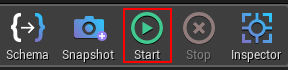
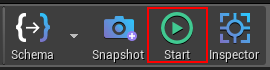
Docs/DOC-1068 Schema updates (#912)
* Edited initial schema generation instructions

Edited schema gen instruction in multiserver, template and porting guide.
Updated toolbar screenshots
Added new schema gen info to schema.md

* Update schema-button.png

* Update schema.md

* Update SpatialGDK/Documentation/content/spatialos-concepts/schema.md

* Update SpatialGDK/Documentation/content/spatialos-concepts/schema.md

* Update gdk-template.md

* Update tutorial-multiserver-setup.md

* Update tutorial-porting-guide.md

* Update schema.md

* Updated schema gen instructions

* Update schema.md

* Update SpatialGDK/Documentation/content/spatialos-concepts/schema.md

* Update SpatialGDK/Documentation/content/spatialos-concepts/schema.md

* Update SpatialGDK/Documentation/content/spatialos-concepts/schema.md

* Update SpatialGDK/Documentation/content/spatialos-concepts/schema.md

* Update schema.md

diff --git a/SpatialGDK/Documentation/content/spatialos-concepts/schema.md b/SpatialGDK/Documentation/content/spatialos-concepts/schema.md
@@ -1,30 +1,53 @@
 <%(TOC)%>
 # Schema
 
-Schema is a set of definitions which represent your game's objects in SpatialOS. SpatialOS uses schema to generate APIs specific to the components in your project. You can then use these APIs in your game's [worker types]({{urlRoot}}//content/glossary#spatialos-component) so their instances can interact with [SpatialOS entity components]({{urlRoot}}/content/glossary#spatialos-component). </br>
+Schema is a set of definitions which represent your game's classes in SpatialOS. SpatialOS uses schema to generate APIs specific to the components in your project. You can then use these APIs in your game's [worker types]({{urlRoot}}//content/glossary#spatialos-component) so their instances can interact with [SpatialOS entity components]({{urlRoot}}/content/glossary#spatialos-component). </br>
 
 Schema is defined in `.schema` files and written in schemalang.  When you use the GDK, the schema files and their contents are generated and deleted automatically so you do not have to write or edit schema files manually. The GDK generates and deletes schema for you, when you start schema generation.
 
 #### How to generate schema
 
-To generate schema, select the **Schema** button in the [GDK Toolbar]({{urlRoot}}/content/toolbars#buttons). The GDK automatically iterates through classes with replicated properties to generate the required schema files and then updates the [SchemaDatabase]({{urlRoot}}/content/glossary#schemadatabase).
+There are two ways to generate schema for your project:
 
-![Toolbar]({{assetRoot}}assets/screen-grabs/toolbar/schema-button.png)
+* **Generate schema (Full Scan)** 
 
-_Image: In the GDK toolbar in the Unreal Editor, select **Schema**_
+    To generate schema for all classes* in your project:<br/>
+
+    In the Unreal Editor, on the [GDK Toolbar]({{urlRoot}}/content/toolbars#buttons), open the **Schema** drop-down menu and select **Schema (Full Scan)**.<br/> You must select **Schema (Full Scan)** the first time you generate schema for a project. 
+    <br/> ![Toolbar]({{assetRoot}}assets/screen-grabs/toolbar/schema-button-full-scan.png)<br/>
+    _Image: In the GDK toolbar in the Unreal Editor, select **Schema (Full Scan)**_<br/>
+    <br/>When you select **Schema (Full Scan)**, the GDK automatically iterates through all classes* in your project to generate the schema files, and then updates the [SchemaDatabase]({{urlRoot}}/content/glossary#schemadatabase). <br/>
+
+    Run a full scan the first time you generate schema for your project, and whenever you need to generate schema for classes* that are not currently loaded by the Editor.<br/>For example: You need to select **Schema (Full Scan)** if you didn't generate schema after adding a new Blueprint to your game, and that Blueprint is no longer open in the Editor.<br/><br/>
+
+* **Generate Schema (Iterative)**
+
+    To generate schema for classes* that are currently loaded by the Editor: <br/>
+
+    Select **Schema** in the [GDK Toolbar]({{urlRoot}}/content/toolbars#buttons). The GDK automatically iterates through classes* that are currently loaded by the Editor, generates the schema files and updates the [SchemaDatabase]({{urlRoot}}/content/glossary#schemadatabase).<br/>
+    ![Toolbar]({{assetRoot}}assets/screen-grabs/toolbar/schema-button.png)<br/>
+    _Image: In the GDK toolbar in the Unreal Editor, select **Schema**_<br/><br/>
 
 As the GDK automatically generates all the schema you need, you do not have to write or edit schema manually when using the GDK.
 
+> \* Whenever you generate schema, the GDK automatically creates schema for classes with [replicated properties (Unreal documentation)](https://docs.unrealengine.com/en-US/Gameplay/Networking/Actors/Properties) or [RPCs (Unreal documentation)](https://docs.unrealengine.com/en-us/Gameplay/Networking/Actors/RPCs). If a class does not have replicated properties or RPCs, then the GDK does not generate schema for it. 
+
 #### When to generate schema
 
-You must generate schema when you add or change any [replicated properties (Unreal documentation)](https://docs.unrealengine.com/en-US/Gameplay/Networking/Actors/Properties) that you want to deploy to SpatialOS.
+Select **Schema (Full Scan)** if you have: 
 
-The GDK only generates schema for classes currently loaded into memory. This means if your project uses [sublevels](<https://docs.unrealengine.com/en-us/Engine/Levels/LevelsWindow>), you’ll need to load them in addition to your map, before generating schema.
+* Not generated any schema for your project.
+* Added a class with replicated properties that is not currently loaded by the Editor.
+* Edited a class with replicated properties that is not currently loaded by the Editor.
+
+Select **Schema** if you have:
+
+* Added a class with replicated properties that is currently loaded by the Editor.
+* Edited a class with replicated properties that is currently loaded by the Editor.
 
 #### Schema deletion 
 
 When you generate schema, the GDK verifies that any classes referenced in the [SchemaDatabase]({{urlRoot}}/content/glossary#schemadatabase) still exist. If you delete a class, the GDK removes it from the SchemaDatabase the next time you generate schema. 
-
 
 ## Schema and source control 
 

diff --git a/SpatialGDK/Documentation/content/tutorials/multiserver-shooter/tutorial-multiserver-setup.md b/SpatialGDK/Documentation/content/tutorials/multiserver-shooter/tutorial-multiserver-setup.md
@@ -59,12 +59,12 @@ In this step, you're going to build the Unreal GDK's dependencies.
 1. Press F5 on your keyboard or select **Local Windows Debugger** in the Visual Studio toolbar to open your project in the Unreal Editor.<br/>
 ![Visual Studio toolbar]({{assetRoot}}assets/set-up-template/template-vs-toolbar.png)<br/>
 _Image: The Visual Studio toolbar_<br/><br/>
-1. In the GDK toolbar, select **Schema** to generate the SpatialOS schema based on your Unreal project. (Schema is a definition of the components and entities your SpatialOS world can have, see the glossary for more details on [schema](https://docs.improbable.io/reference/latest/shared/glossary).) <br/>
-![Toolbar]({{assetRoot}}assets/screen-grabs/toolbar/schema-button.png)<br/>
-_Image: On the GDK toolbar in the Unreal Editor select **Schema**_<br/><br/>
-1. Select [**Snapshot**]({{urlRoot}}/content/generating-a-snapshot) to generate a snapshot (a representation of the state of the SpatialOS world) which will be used to start the deployment.<br/>
+1. In the Unreal Editor, on the GDK toolbar, open the **Schema** drop-down menu and select **Schema (Full Scan)**. <br/>
+  ![Toolbar]({{assetRoot}}assets/screen-grabs/toolbar/schema-button-full-scan.png)<br/>
+  _Image: On the GDK toolbar in the Unreal Editor, select **Schema (Full Scan)**_<br/>
+1. Select **Snapshot** to generate a snapshot.<br/>
 ![Toolbar]({{assetRoot}}assets/screen-grabs/toolbar/snapshot-button.png)<br/>
-_Image: On the GDK toolbar in the Unreal Editor select **Snapshot**_<br/><br/>
+_Image: On the GDK toolbar in the Unreal Editor, select **Snapshot**_<br/>
 
 <br/>
 ### Deploy the project locally

diff --git a/SpatialGDK/Documentation/content/get-started/gdk-template.md b/SpatialGDK/Documentation/content/get-started/gdk-template.md
@@ -82,12 +82,12 @@ You'll find out more about schema, snapshots and workers later on in this tutori
 
 Before you launch a deployment (local or cloud) you must generate [schema]({{urlRoot}}/content/spatialos-concepts/schema) and a [snapshot]({{urlRoot}}/content/spatialos-concepts/generating-a-snapshot). 
 
-1. In the Unreal Editor, on the GDK toolbar, select **Schema** to generate schema.<br/>
-![Toolbar]({{assetRoot}}assets/screen-grabs/toolbar/schema-button.png)<br/>
-_Image: On the GDK toolbar in the Unreal Editor select **Schema**_<br/>
+1. In the Unreal Editor, on the GDK toolbar, open the **Schema** drop-down menu and select **Schema (Full Scan)**. <br/>
+  ![Toolbar]({{assetRoot}}assets/screen-grabs/toolbar/schema-button-full-scan.png)<br/>
+  _Image: On the GDK toolbar in the Unreal Editor, select **Schema (Full Scan)**_<br/>
 1. Select **Snapshot** to generate a snapshot.<br/>
 ![Toolbar]({{assetRoot}}assets/screen-grabs/toolbar/snapshot-button.png)<br/>
-_Image: On the GDK toolbar in the Unreal Editor select **Snapshot**_<br/>
+_Image: On the GDK toolbar in the Unreal Editor, select **Snapshot**_<br/>
 
 <%(#Expandable title="What is schema?")%>Schema is a set of definitions which represent your game's objects in SpatialOS. Schema is defined in `.schema` files and written in schemalang.  When you use the GDK, the schema files and their contents are generated automatically so you do not have to write or edit schema files manually.
 

diff --git a/SpatialGDK/Documentation/content/tutorials/tutorial-porting-guide.md b/SpatialGDK/Documentation/content/tutorials/tutorial-porting-guide.md
@@ -168,11 +168,12 @@ You must modify your `GameInstance` class to work properly with the GDK.
 ### 6. Generate schema and a snapshot
 You need to generate [schema]({{urlRoot}}/content/spatialos-concepts/schema) and generate a [snapshot]({{urlRoot}}/content/spatialos-concepts/generating-a-snapshot) before you start your deployment. To do this:
 
-1. In the Unreal Editor, on the [GDK toolbar]({{urlRoot}}/content/toolbars), select **Schema** to run the [Schema Generator]({{urlRoot}}/content/glossary#schema-generation).
-1. On the same toolbar, select **Snapshot**, which will generate a snapshot for the map currently open in the editor.
-
-    ![Toolbar]({{assetRoot}}assets/screen-grabs/toolbar/toolbars-basic.png)<br/>
-    _Image: The GDK for Unreal toolbar_<br/>
+1. In the Unreal Editor, on the GDK toolbar, open the **Schema** drop-down menu and select **Schema (Full Scan)**. <br/>
+       ![Toolbar]({{assetRoot}}assets/screen-grabs/toolbar/schema-button-full-scan.png)<br/>
+     _Image: On the GDK toolbar in the Unreal Editor, select **Schema (Full Scan)**_<br/>
+1. Select **Snapshot** to generate a snapshot.<br/>
+    ![Toolbar]({{assetRoot}}assets/screen-grabs/toolbar/snapshot-button.png)<br/>
+    _Image: On the GDK toolbar in the Unreal Editor, select **Snapshot**_<br/>
 
 ### 7. Launch your game
 1. Switch your game project to use the SpatialOS networking. To do this: 
